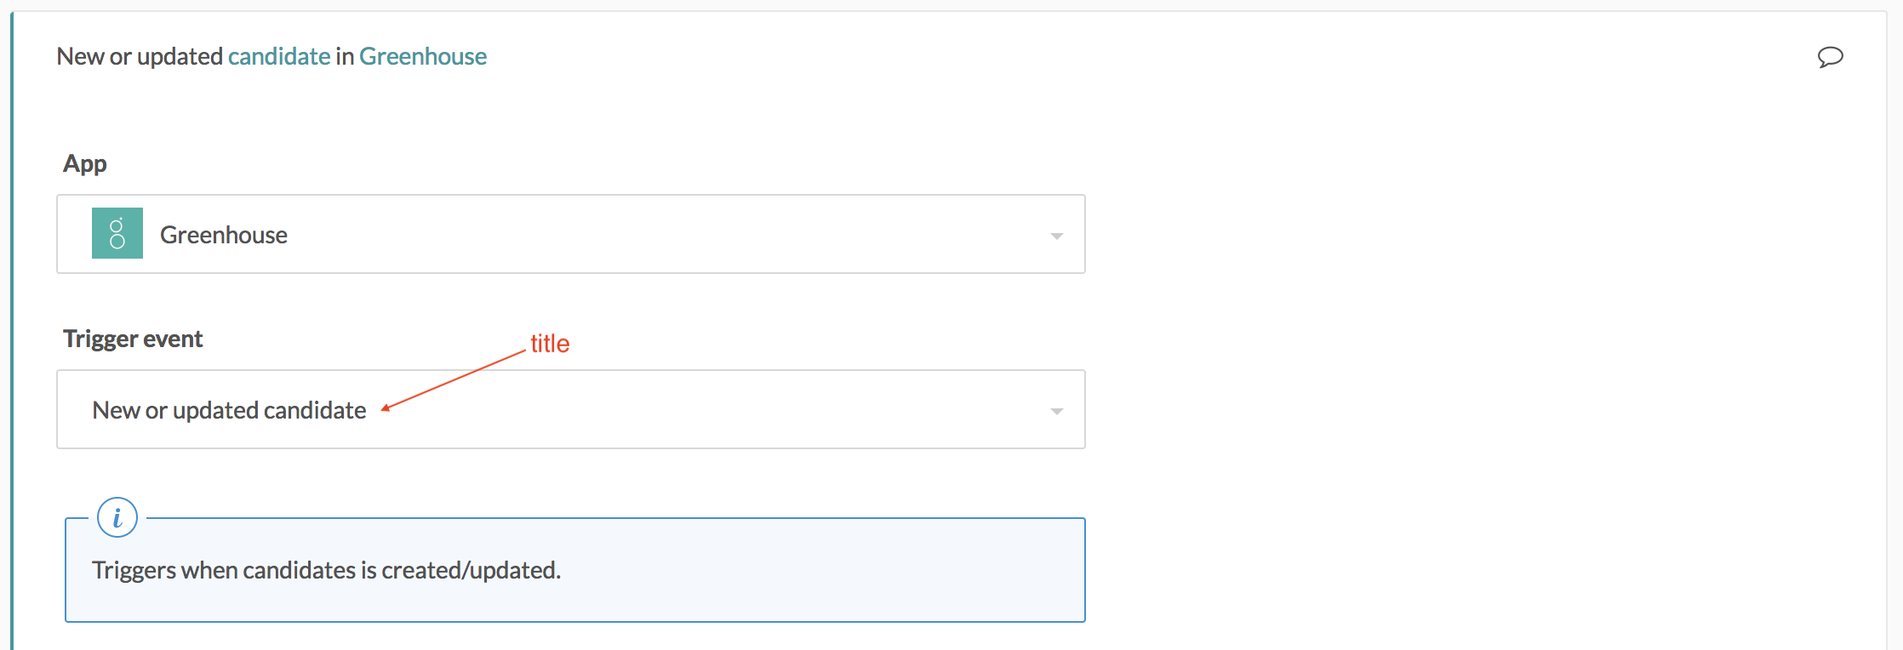
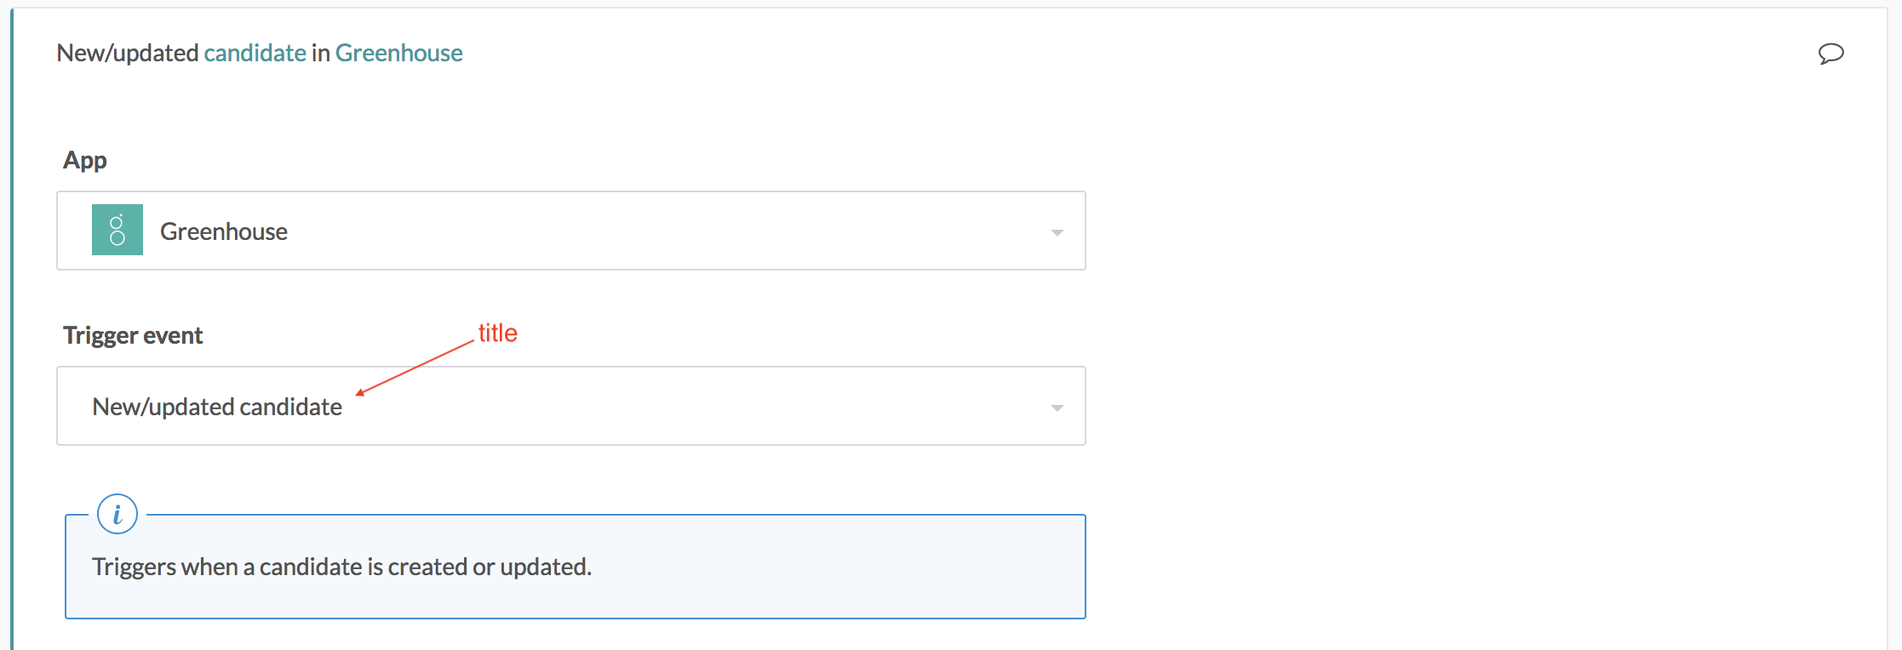
actions design docs

diff --git a/connectors-design-guide.md b/connectors-design-guide.md
@@ -4,7 +4,7 @@ date: 2018-09-05 15:30:00 Z
 ---
 
 # Connectors design guide
-This guide is meant for citizen developers who are building SDK connectors on the Workato platform, and guides the design of connectors, triggers and actions. This guide is meant to maintain consistency in the style and behaviour of triggers and actions on the Workato platform, so as to provide a consistent experience for the user building Workato recipes.
+This guide is meant for developers building SDK connectors on the Workato platform, and guides the design of connectors, triggers and actions. This guide is meant to maintain consistency in the style and behaviour of triggers and actions on the Workato platform, so as to provide a consistent experience for users building Workato recipes.
 
 We recommend that you adopt these design patterns in SDK connectors that you're submitting for certification. This will help shorten the approval turnaround time and get your connector published on the Workato platform sooner.
 
@@ -47,13 +47,13 @@ There are some common descriptive components that appear in all triggers. The fo
 
 Here is how `description`, `title` and `help` show up in the trigger.
 
-![Components found in triggers](/assets/images/connectors-design-guide/trigger-components.png)
-*Components found in triggers*
+![Description, title and help components in the trigger](/assets/images/connectors-design-guide/trigger-components.png)
+*Description, title and help components in the trigger*
 
 The `title`, `subtitle` and `description` are often very similar in values.
 
 ![Title, subtitle, description components](/assets/images/connectors-design-guide/trigger-components-2.png)
-*Title, subtitle, description components*
+*Title, subtitle, description components in the trigger*
 
 This is the SDK code that corresponds to the above components.
 
@@ -63,7 +63,7 @@ This is the SDK code that corresponds to the above components.
 #### Trigger component - description
 The description is a quick summary of what each recipe line does in which app. When looking at a recipe, the trigger and action descriptions should be able to provide a good idea of what the recipe is doing.
 
-We adopt the convention: `New <record> in <app>` and `New/updated <record> in <app>.` where the app and business object should be highlighted. 
+We adopt the convention: `New <record> in <app>` and `New/updated <record> in <app>` where the app and business object should be highlighted. 
 
 ![Apps and business objects for triggers and actions](/assets/images/connectors-design-guide/trigger-action-descriptions.png)
 *Apps and business objects for triggers and actions*
@@ -81,7 +81,9 @@ This results in the trigger description below.
 
 Some additional examples of trigger descriptions:
 
+- New **rows** in **SQL Server** (batch)
 - New/updated **opportunities** in **Salesforce** (batch)
+- New **email** in **Outlook** (real-time)
 - New **vendor** in **NetSuite**
 - New **file** in **Box**
 
@@ -107,7 +109,7 @@ title: "New/updated candidate"
 
 This results in the trigger title below.
 
-![Title for the trigger](/assets/images/connectors-design-guide/trigger-help.png)
+![Title for the trigger](/assets/images/connectors-design-guide/trigger-title.png)
 *Title for the trigger*
 
 If undefined, the trigger defaults to the action's internal name. For example, the following code will result in a trigger title of `New updated candidate`
@@ -139,6 +141,12 @@ If undefined, the subtitle defaults to the trigger description. For example, the
 ![Trigger code without subtitle defined](/assets/images/connectors-design-guide/trigger-components-code.png)
 *Trigger code without subtitle defined*
 
+Some additional examples of trigger descriptions:
+
+- Triggers immediately when a new company is created in Intercom
+- Triggers when an order is created or updated in SAP
+- Triggers when a lead is created in Marketo
+
 #### Trigger component - help
 The trigger help is trigger-level text that elaborates how the trigger works.
 
@@ -156,16 +164,19 @@ Here's an example of a help text definition.
 help: "Triggers when a candidate is created or updated."
 ```
 
+This results in the trigger help text below.
+
 ![Additional help text for the trigger](/assets/images/connectors-design-guide/trigger-help.png)
 *Additional help text for the trigger*
 
 ### Trigger input
-There are 2 common trigger inputs as detailed in the following table.
+There are some common trigger inputs as detailed in the following table.
 
-| Trigger input                            | Description                                                                                                                                                               |
-|------------------------------------------|---------------------------------------------------------------------------------------------------------------------------------------------------------------------------|
-| [Since/from](#trigger-input---sincefrom) | Input field that allows you to pick up records created or updated some time ago, e.g. process new candidates created a week ago.                                          |
-| API-based filters                        | Filters for triggers to pick only events that user is interested in, e.g. pick up only emails with `Important` label, or pick up only leads marked `Hot`                  |
+| Trigger input                                                 | Description                                                                                                                                                                              |
+|---------------------------------------------------------------|------------------------------------------------------------------------------------------------------------------------------------------------------------------------------------------|
+| [Since/from](#trigger-input---sincefrom)                      | Input field that allows you to pick up records created or updated some time ago, e.g. process new candidates created a week ago.                                                         |
+| [API-based filters](#trigger-input---api-based-filters)       | Filters for triggers to pick only events that user is interested in, e.g. pick up only emails with `Important` label, or pick up only leads marked `Hot`                                 |
+| [Batch configuration](#trigger-input---batch-configuration)   | Specific for batch triggers. Collection of fields that allow user to define the batches of data returned, e.g. batch size, type of records and specific fields in the records to return. |
 
 #### Trigger input - since/from
 Almost every trigger has this since input field that allows you to pick up records created or updated some time ago, e.g. process new candidates created a week ago.
@@ -199,8 +210,11 @@ We recommend adding API-based filters for triggers where there are common use ca
 | Feature     | API-based filters                                                                                                                                                                                                                                               | Trigger condition filters                                                                                                                                                                                                                                                                                                                                   |
 |-------------|-----------------------------------------------------------------------------------------------------------------------------------------------------------------------------------------------------------------------------------------------------------------|-------------------------------------------------------------------------------------------------------------------------------------------------------------------------------------------------------------------------------------------------------------------------------------------------------------------------------------------------------------|
 | Performance | Better performance as your app sends only relevant data to Workato for processing. This reduces the amount of traffic from your app, which makes it more efficient and cheaper if the app charges for API calls.                                                | Less efficient as your app sends the delta to Workato, i.e. all records which have been created or updated since the last time Workato polled the app, and Workato filters the relevant records. There is additional API traffic for the records which gets filtered out. This makes it less efficient and more expensive if the app charges for API calls. |
+| Flexibility | Less flexibility as the connector developer decides what are the fields a user can filter on, and exposes them as input fields, e.g. lead scores or lead ratings for lead records. Users wishing to add additional filters will need to use trigger conditions. | More flexibility as the user can decide which fields to filter on, as well as use formula mode in their conditions.                                                                                                                                                                                                                                         |
 
-For example, the Gmail connector's new email trigger has an optional filter to pick up only emails with a particular label. If no label is set, the trigger picks up all emails received - which can be a significant number a day. But if we set the label to **INBOX** or **STARRED**, Gmail will send us only the emails that meet this criteria, hence reducing unnecessary traffic. If this API-based was not provided, the user would need to use trigger conditions, which means that Gmail will send Workato all the emails received, and Workato will have to filter for the **INBOX** or **STARRED** emails to process.
+For example, the Gmail connector's new email trigger has an optional filter to pick up only emails with a particular label. If no label is set, the trigger picks up all emails received - which can be a significant number a day. But if we set the label to **INBOX** or **STARRED**, Gmail will send us only the emails that meet this criteria, hence reducing unnecessary traffic.
+
+If this API-based was not provided, the user would need to use trigger conditions, which means that Gmail will send Workato all the emails received, and Workato will have to filter for the **INBOX** or **STARRED** emails to process.
 
 ![Gmail new email trigger has an optional filter to pick up only emails with certain labels](/assets/images/connectors-design-guide/api-filters-gmail.png)
 *Gmail new email trigger has an optional filter to pick up only emails with certain labels*
@@ -211,12 +225,37 @@ In another example, Google Sheets have a filter for the user to define which she
 *Google Sheets new/updated row trigger has required filters to pick up only rows in a specific sheet*
 
 #### Trigger input - batch configuration
-For batch triggers where each trigger event returns a list of records instead of a single record, users should have the ability to configure batch settings. 
+For batch triggers where each trigger event returns a list of records instead of a single record, users should have the ability to configure batch settings.
 
-- Datatree output/fields returned
-- Page size
+- Datatree output: the fields returned by the trigger, e.g. only return the ID and name of customer records and exclude their addresses. This is useful for optimizing API requests to retrieve only needed data from the app.
+- Batch size: the number of records to return per trigger event. This is useful for users designing recipes to work in batches, e.g. fetch a list of 2000 records from one app for batch insert into another app.
 
 ### Trigger output
+There are some common trigger outputs as detailed in the following table.
+
+| Trigger output                                                | Description                                                                                                                                                                                  |
+|---------------------------------------------------------------|----------------------------------------------------------------------------------------------------------------------------------------------------------------------------------------------|
+| [Record fields](#trigger-output---record-fields)              | All the data fields of the record that the trigger is fetching as a trigger event. E.g. if the trigger event is **New lead**, then the record fields would be lead name, email, mobile, etc. |
+| [Batch metafields](#trigger-output---batch-metafields)        | Specific for batch triggers. Metafields such as boolean fields `First batch?`, 'Last batch?`, `ID of first record in batch`, `ID of first record in batch`, etc.                             |
+
+#### Trigger output - record fields
+We usually return the full API response back to the user in the trigger datatree. In the following, we see that the **New/updated Salesforce lead** trigger has all the data fields of the lead available.
+
+![Trigger output datatree for new/updated Salesforce lead trigger](/assets/images/connectors-design-guide/trigger-output-single-record.gif)
+*Trigger output datatree for new/updated Salesforce lead trigger*
+
+For batch triggers that return a list, we correspondingly return a list in the trigger datatree. In the following, we see that the **New/updated Salesforce lead (batch)** trigger has a list of leads.
+
+![Trigger output datatree for new/updated Salesforce lead (batch) trigger](/assets/images/connectors-design-guide/trigger-output-batch-records.gif)
+*Trigger output datatree for new/updated Salesforce lead (batch) trigger*
+
+If we expand this list, we see all the data fields of the lead available for use in our recipe.
+
+![Trigger output datatree for new/updated Salesforce lead (batch) trigger](/assets/images/connectors-design-guide/trigger-output-batch-records.png)
+*Trigger output datatree for new/updated Salesforce lead (batch) trigger*
+
+#### Trigger output - batch metafields
+
 
 ### Trigger types
 Triggers are commonly of the following types.
@@ -326,28 +365,37 @@ There are some common descriptive components that appear in all actions. The fol
 
 Here is how `description`, `title` and `help` show up in the action.
 
+![Description, title and help components in the trigger](/assets/images/connectors-design-guide/action-components.png)
+*Description, title and help components in the trigger*
+
 The `title`, `subtitle` and `description` are often very similar in values.
 
+![Title, subtitle, description components](/assets/images/connectors-design-guide/action-components-2.png)
+*Title, subtitle, description components*
+
 This is the SDK code that corresponds to the above components.
+
+![Action code corresponding to action descriptive components](/assets/images/connectors-design-guide/action-descriptive-components-code.png)
+*Action code corresponding to action descriptive components*
 
 #### Action component - description
 The description is a quick summary of what each recipe line does in which app. When looking at a recipe, the trigger and action descriptions should be able to provide a good idea of what the recipe is doing.
 
-We adopt the convention: `New <record> in <app>` and `New/updated <record> in <app>.` where the app and business object should be highlighted. 
+We adopt the convention: `Create <record> in <app>`, `Update <record> in <app>`, `Search <records> in <app>` where the app and business object should be highlighted. 
 
 ![Apps and business objects for triggers and actions](/assets/images/connectors-design-guide/trigger-action-descriptions.png)
 *Apps and business objects for triggers and actions*
 
-Here's an example of a typical description definition where the business object `candidate` and app `Greenhouse` are highlighted.
+Here's an example of a typical description definition where the business object `prospect` and app `Greenhouse` are highlighted.
 
 ```
-description: "New/updated <span class='provider'>candidate</span> in <span class='provider'>Greenhouse</span>"
+description: "Create <span class='provider'>prospect</span> in <span class='provider'>Greenhouse</span>"
 ```
 
 This results in the action description below.
 
-![Description for the trigger](/assets/images/connectors-design-guide/trigger-description.png)
-*Description for the trigger*
+![Description for the action](/assets/images/connectors-design-guide/action-description.png)
+*Description for the action*
 
 Some additional examples of action descriptions:
 
@@ -356,65 +404,67 @@ Some additional examples of action descriptions:
 - Upsert opportunity in Salesforce
 
 #### Action component - title
-The title shows up in the app's trigger picklist to help you make a selection between triggers.
+The title shows up in the app's action picklist to help you make a selection between actions.
 
-![Picklist of available triggers for an app](/assets/images/connectors-design-guide/trigger-picklist-titles.png)
-*Picklist of available triggers for an app*
+![Picklist of available actions for an app](/assets/images/connectors-design-guide/action-picklist-titles.png)
+*Picklist of available actions for an app*
 
 We adopt the following conventions:
-- `New record`
-- `New/updated record`
-- `New record (real-time)`
-- `New/updated record (real-time)`
-- `New records (batch)`
-- `New/updated records (batch)`
+- `Create record`
+- `Update record`
+- `Upsert record`
+- `Search records`
+- `Get record by ID`
+- `Create records (batch)`
+- `Update records (batch)`
+- `Upsert records (batch)`
+- `Download file/attachment`
+- `Upload file/attachment`
 
-Here's an example of a typical trigger title definition.
+Here's an example of a typical action title definition.
 
 ```
-title: "New/updated candidate"
+title: "Create prospect"
 ```
 
-This results in the trigger title below.
+This results in the action title below.
 
-![Title for the trigger](/assets/images/connectors-design-guide/trigger-help.png)
-*Title for the trigger*
+![Title for the action](/assets/images/connectors-design-guide/action-title.png)
+*Title for the action*
 
-If undefined, the trigger defaults to the action's internal name. For example, the following code will result in a trigger title of `New updated candidate`
+If undefined, the trigger defaults to the action's internal name. For example, the following code will result in a action title of `Add prospect`
 
-![Trigger code without title defined](/assets/images/connectors-design-guide/trigger-components-code.png)
-*Trigger code without title defined*
+![Action code without title defined](/assets/images/connectors-design-guide/action-components-code.png)
+*Action code without title defined*
 
 #### Action component - subtitle
-The subtitle complements the title by elaborating on what the trigger does, to help you make a decision between triggers.
+The subtitle complements the title by elaborating on what the action does, to help you make a decision between actions. Most subtitles read like a more specific version of its associated description.
 
-![Picklist of available triggers for an app](/assets/images/connectors-design-guide/trigger-picklist-subtitles.png)
-*Picklist of available triggers for an app*
+![Picklist of available actions for an app](/assets/images/connectors-design-guide/action-picklist-subtitles.png)
+*Picklist of available actions for an app*
 
-We adopt the convention: `Triggers when <description>`, e.g. `Triggers when a new email is received in Outlook`. This format isn't grammatically correct everytime, so we can adjust it accordingly.
+If undefined, the subtitle defaults to the action description. For example, the following code will result in a trigger subtitle of `Create prospect in Greenhouse`.
 
-Here's an example of a trigger subtitle definition.
+![Action code without subtitle defined](/assets/images/connectors-design-guide/action-components-code.png)
+*Action code without subtitle defined*
+
+Here's an example of an action subtitle definition.
 
 ```
-subtitle: "Triggers when a candidate is created or updated in Greenhouse"
+subtitle: "Create a new prospect in Greenhouse"
 ```
 
-This results in the trigger subtitle below.
+This results in the action subtitle below.
 
-![Subtitle for the trigger](/assets/images/connectors-design-guide/trigger-subtitle.png)
-*Subtitle for the trigger*
-
-If undefined, the subtitle defaults to the trigger description. For example, the following code will result in a trigger subtitle of `New/updated candidate in Greenhouse`.
-
-![Trigger code without subtitle defined](/assets/images/connectors-design-guide/trigger-components-code.png)
-*Trigger code without subtitle defined*
+![Subtitle for the action](/assets/images/connectors-design-guide/action-subtitle.png)
+*Subtitle for the action*
 
 #### Action component - help
-The trigger help is trigger-level text that elaborates how the trigger works.
+The trigger help is action-level text that elaborates how the action works.
 
 This usually comprises of:
 
-- Subtitle, e.g. "Triggers when a new email is received in Outlook."
+- Subtitle, e.g. "Download email attachments from email in Outlook"
 - Limitations of the trigger/action, if any, e.g. "This search action will retrieve a maximum of 200 records.", "This upload action can handle a maximum of 25GB."
 - Common edge cases, e.g. "This Salesforce search action may time out if you're searching by non-indexed fields."
 - Complementary actions, if any, e.g. "To retrieve email attachments, use the **Download attachments** action."
@@ -423,38 +473,62 @@ This usually comprises of:
 Here's an example of a help text definition.
 
 ```
-help: "Triggers when a candidate is created or updated."
+help: "Creates a new prospect. A prospect can be on no jobs or many jobs. " \
+	  "A prospect application cannot be added to a job stage. " \
+      "When a prospect is ready to be added to a job stage, they can be converted to a candidate in Greenhouse."
 ```
 
-![Additional help text for the trigger](/assets/images/connectors-design-guide/trigger-help.png)
-*Additional help text for the trigger*
+This results in the action help text below.
 
-### Action input
-
-### Action output
+![Additional help text for the action](/assets/images/connectors-design-guide/action-help.png)
+*Additional help text for the action*
 
 ### Action types
-Actions are commonly of the following types.
+Actions are commonly of the following types:
+
+- [Create record](#action-type---create-record)
+- [Update record](#action-type---update-record)
+- [Upsert record](#action-type---upsert-record)
+- [Search records](#action-type---search-records)
+- [Get record by ID](#action-type---get-record)
 
 #### Action type - create record
+This action uses the data input to create a new record. It should return the internal ID of the record created, at a minimum.
+
+Behavior:
+- New record should be created with the provided data.
+- Add an input field hint to the unique key to highlight to the user that it should be a disinct value, e.g. email of a contact should be unique.
+- If the new record was not successfully created, action should throw an error with an explanatory error message, e.g. "Record with duplicate email exists".
+- If the API allows for duplicate records to be created, i.e. record does not need any unique keys, highlight this in the help text.
 
 #### Action type - update record
+This action uses the data input to update an existing record. The record to update should be identified using a unique key, e.g. internal ID or external ID.
+
+Behavior: 
+- The input data provided should be written to the existing record.
+- If an input field doesn't have data inputs provided by the user, it should not erase existing values in the app by passing in a `null` value, unless the user explicitly uses the `clear` formula. Fields without data inputs should be stripped from the API request so that a null value is not sent.
+- For records with lists, e.g. invoice with invoice line items, include an option to append to/overwrite the existing list with the new list input. If the API only allows for a certain behavior, highlight this behaviour in the input list section's hint.
 
 #### Action type - upsert record
+This action uses the data input to update an existing record, or create a new record if no existing record is found. The record to update should be identified using a unique key, e.g. internal ID or external ID.
 
-#### Action type - search record
-The action 
+Behavior: 
+- The input data provided should be written to the existing record.
+- If an input field doesn't have data inputs provided by the user, it should not erase existing values in the app by passing in a `null` value, unless the user explicitly uses the `clear` formula. Fields without data inputs should be stripped from the API request so that a null value is not sent.
+- For records with lists, e.g. invoice with invoice line items, include an option to append to/overwrite the existing list with the new list input. If the API only allows for a certain behavior, highlight this behaviour in the input list section's hint.
+
+#### Action type - search records
+This action takes in one or more parameters as search criteria, and returns only records matching all the search criteria.
+
+Behavior of get record actions:
+- Takes in one or more inputs as search criteria.
+- Only records matching all search criteria should be returned.
+- Search should return only exact matches. If API can only return records which does a partial match, highlight this behavior in the help text.
+- Possible to return a list of records. Highlight the maximum number of records which can be returned in the help hint.
 
 #### Action type - get record
-The action typically returns one record that matches the record ID or key provided. 
+This action returns one record that matches the record ID or key provided. 
 
-Behaviour of get record actions:
+Behavior of get record actions:
 - Takes in a unique record ID or key as input.
 - Action fails if no record that matches the ID is found.
-
-#### Action type - create record (batch)
-
-#### Action type - update record (batch)
-
-#### Action type - upsert record (batch)
-
